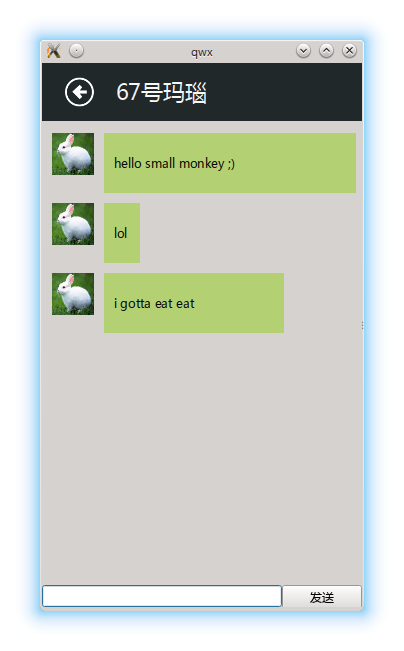
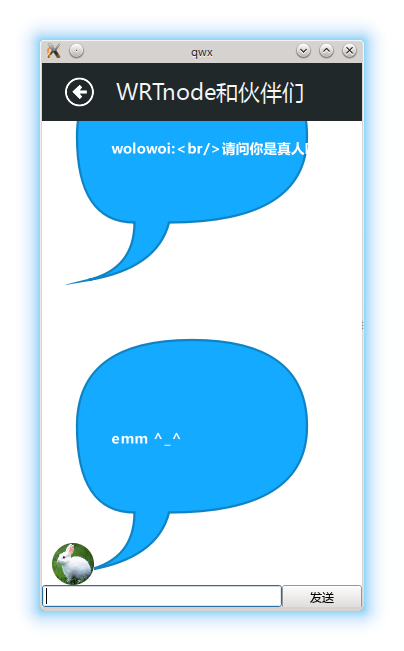
Update ChatView

diff --git a/qml/ChatView.qml b/qml/ChatView.qml
@@ -4,9 +4,10 @@ import QtQuick 2.2
 import QtQuick.Controls 1.1
 import cn.com.isoft.qwx 1.0
 
-Item {
+Rectangle {
     id: chatView
     width: parent.width; height: parent.height
+    color: "white"
 
     property string uin
     property string sid
@@ -16,6 +17,11 @@ Item {
     property string toNickName
     property var syncKey
 
+    function moveToTheEnd() 
+    {
+        chatListView.positionViewAtIndex(chatListView.count - 1, ListView.End)
+    }
+
     GetMsg {                                                                       
         id: getMsgObj
         fromUserName: chatView.fromUserName
@@ -23,6 +29,7 @@ Item {
         onReceived: {
             chatListModel.append({"content": content, 
                                   "curUserName": userName})
+            moveToTheEnd()
         }
     }                                                                              
                                                                                    
@@ -40,6 +47,9 @@ Item {
 
     ListModel {
         id: chatListModel
+        Component.onCompleted: {
+            chatListModel.clear()
+        }
 
         ListElement { content: ""; curUserName: "" }
     }
@@ -52,36 +62,26 @@ Item {
         anchors.top: chatHeader.bottom
         spacing: 10
         delegate: Item {
-            height: 60
+            height: 280
    
             HeadImg {
                 id: fromUserHeadImgObj 
                 userName: curUserName 
                 onFilePathChanged: { 
-                    fromUserHeadImage.source = fromUserHeadImgObj.filePath 
+                    fromUserHeadImage.imageSource = fromUserHeadImgObj.filePath 
                 }
             }
 
-            Image {
+            TalkBubble {
+                text: content
+            }
+
+            CircleImage {
                 id: fromUserHeadImage
                 width: 42; height: 42
                 anchors.left: parent.left
                 anchors.leftMargin: 10
-            }
-
-            Rectangle {
-                color: "#b3d073"
-                width: content.length * 12; height: parent.height
-                anchors.left: fromUserHeadImage.right
-                anchors.leftMargin: 10
-
-                Text { 
-                    text: content 
-                    font.pixelSize: 12 
-                    anchors.verticalCenter: parent.verticalCenter
-                    anchors.left: parent.left
-                    anchors.leftMargin: 10
-                }
+                anchors.bottom: parent.bottom
             }
         }
     }
@@ -137,6 +137,7 @@ Item {
             chatListModel.append({"content": sendMsgTextField.text, 
                                   "curUserName": chatView.fromUserName})
             sendMsgTextField.text = ""
+            moveToTheEnd()
         }
     }
 }

diff --git a/qml/TalkBubble.qml b/qml/TalkBubble.qml
@@ -1,0 +1,68 @@
+// Copyright (C) 2014 Leslie Zhai <xiang.zhai@i-soft.com.cn>
+
+import QtQuick 2.0
+
+Item {
+    id: talkBubble
+    property string text 
+
+    Canvas {
+        id: canvas
+        width: 320
+        height: 280
+
+        property color strokeStyle:  Qt.darker(fillStyle, 1.3)
+        property color fillStyle: "#14aaff" // blue
+        property int lineWidth: lineWidthCtrl.value
+        property bool fill: true
+        property bool stroke: true
+        property real alpha: 1.0
+        property real scale : 2.3
+        property real rotate : 0.0
+
+        antialiasing: true
+
+        onLineWidthChanged:requestPaint();
+        onFillChanged:requestPaint();
+        onStrokeChanged:requestPaint();
+
+        onPaint: {
+            var ctx = canvas.getContext('2d');
+            var originX = 75
+            var originY = 75
+
+            ctx.save();
+            ctx.clearRect(0, 0, canvas.width, canvas.height);
+            ctx.translate(originX, originX);
+            ctx.strokeStyle = canvas.strokeStyle;
+            ctx.fillStyle = canvas.fillStyle;
+            ctx.lineWidth = canvas.lineWidth;
+
+            ctx.translate(originX, originY)
+            ctx.rotate(canvas.rotate);
+            ctx.scale(canvas.scale, canvas.scale);
+            ctx.translate(-originX, -originY)
+
+            ctx.beginPath();
+            ctx.moveTo(75,25);
+            ctx.quadraticCurveTo(25,25,25,62.5);
+            ctx.quadraticCurveTo(25,100,50,100);
+            ctx.quadraticCurveTo(50,120,30,125);
+            ctx.quadraticCurveTo(60,120,65,100);
+            ctx.quadraticCurveTo(125,100,125,62.5);
+            ctx.quadraticCurveTo(125,25,75,25);
+            ctx.closePath();
+
+            if (canvas.fill)
+                ctx.fill();
+            if (canvas.stroke)
+                ctx.stroke();
+
+            ctx.fillStyle = "white";
+            ctx.font = "bold 6px sans-serif";
+            // TODO: multiline wrap
+            ctx.fillText(talkBubble.text, 40, 70);
+            ctx.restore();
+        }
+    }
+}

diff --git a/qml/NavigatorView.qml b/qml/NavigatorView.qml
@@ -28,7 +28,7 @@ Item {
 
     Timer {                                                                        
         id: monitorTimer                                                              
-        interval: 8000; running: true; repeat: true; triggeredOnStart: true 
+        interval: 3000; running: true; repeat: true; triggeredOnStart: true 
         onTriggered: {
             monitorObj.get(navigatorView.uin, navigatorView.sid, syncObj.syncKey)
         }                                              

diff --git a/src/circleimage.cpp b/src/circleimage.cpp
@@ -40,6 +40,7 @@ void CircleImage::setImageSource(const QString & imageSource)
 void CircleImage::paint(QPainter* painter) 
 {
     QImage image(m_imageSource);
+    if (image.isNull()) return;
     QPainterPath path;
     path.addRect(0, 0, width(), height());
     path.addEllipse(0, 0, width(), height());

diff --git a/TODO.md b/TODO.md
@@ -2,7 +2,7 @@
 - [x] 缓存 uin, sid, skey 到 ~/.qwx/.cookie 
 - [x] 发送cookie头后将HeadImgUrl缓存到 ~/.qwx/ 
 - [ ] 在手机上发送消息，qwx上也要同步更新
-- [ ] 在qwx上接收聊天室消息
+- [x] 在qwx上接收聊天室消息
 - [ ] 伪装cookie的expires=2114年
 - [ ] 反向 weixin.apk 替代扫描二维码
 
